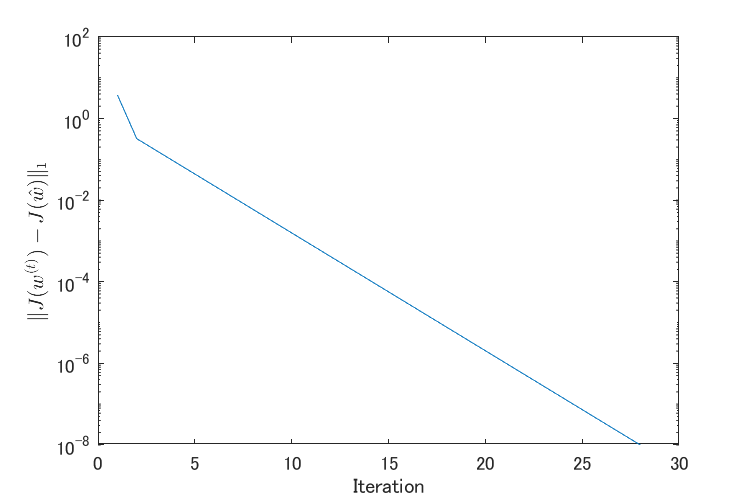
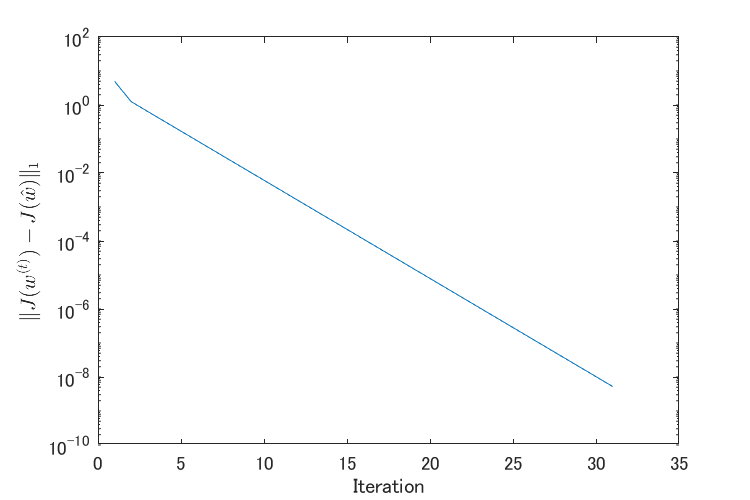
change w0

diff --git a/problem2/Standard_PG.m b/problem2/Standard_PG.m
@@ -10,7 +10,7 @@ dp = @(w) 1/2*(data.A + data.A')*(w - data.mu);
 ST = @(x, gamma) sign(x).*max(abs(x)-gamma, 0);
 
 % initializing
-w = zeros(size(data.mu));
+w = [3; -1];
 
 % main loop
 converge_rate = zeros(1, data.max_iteration);
